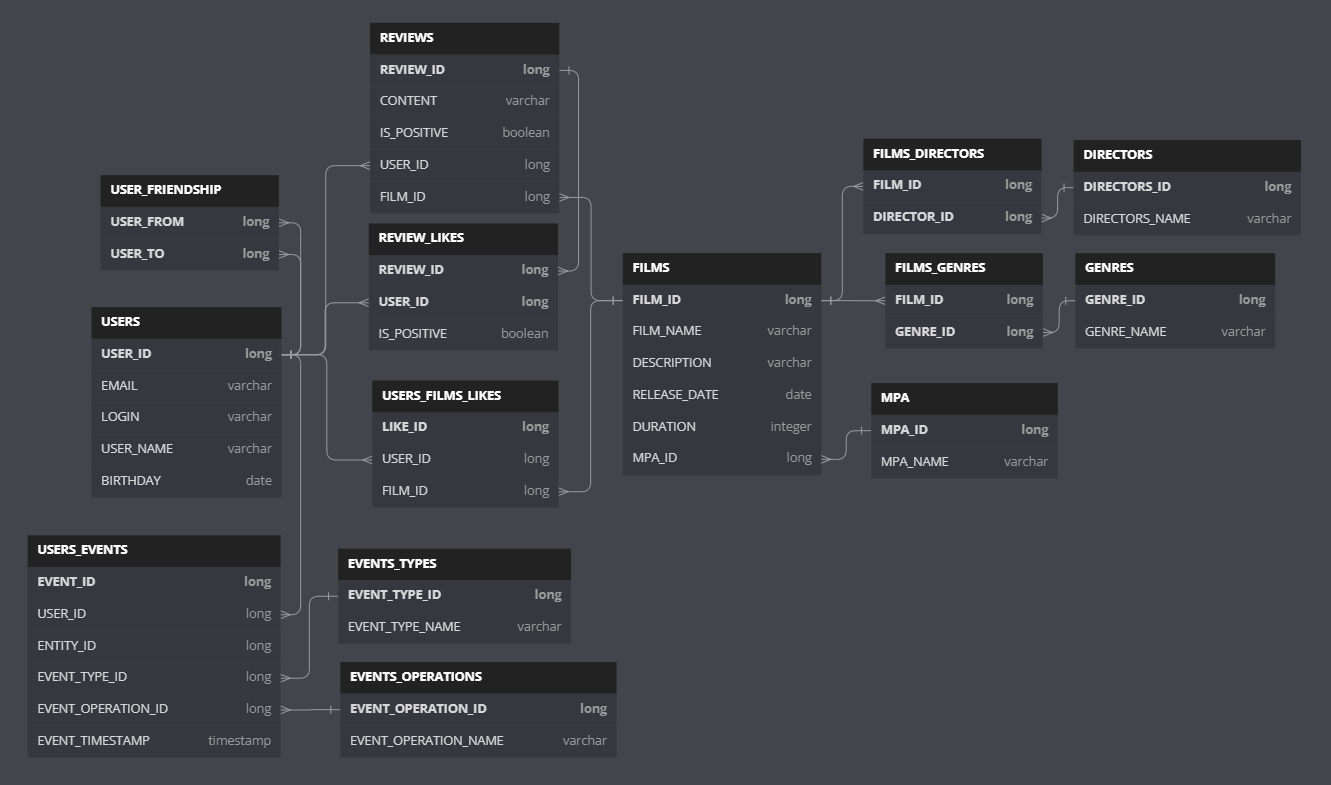
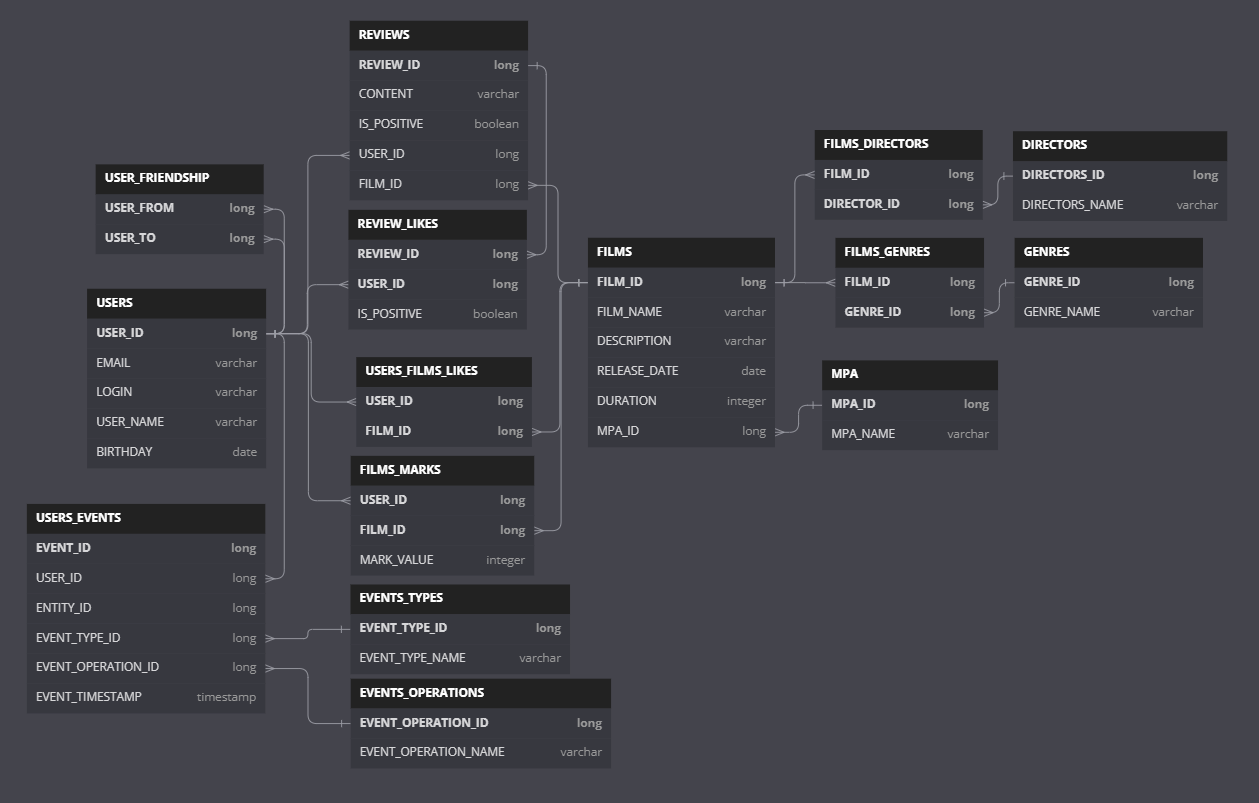
DB_Structure + Readme update

diff --git a/README.md b/README.md
@@ -53,8 +53,7 @@
 
 ### USERS_FILMS_LIKES
 Вспомогательная таблица лайков фильмам от пользователей<br>
-<b>LIKE_ID</b> - ключевое поле, автоинкремент<br>
-<b>(USER_ID, FILM_ID)</b> - данные о лайке
+<b>(USER_ID, FILM_ID)</b> - составной ключ
 
 ---
 
@@ -107,3 +106,10 @@
 Все возможные типы операций для ленты пользователя - REMOVE, ADD, UPDATE<br>
 <b>EVENT_OPERATION_ID</b> - ключевое поле, автоинкремент<br>
 <b>EVENT_OPERATION_NAME</b> - обозначение типа операции
+
+---
+
+### FILMS_MARKS
+Вспомогательная таблица оценок фильмам от пользователей<br>
+<b>(USER_ID, FILM_ID)</b> - составной ключ
+<b>MARK_VALUE</b> - оценка (1 - 10)
